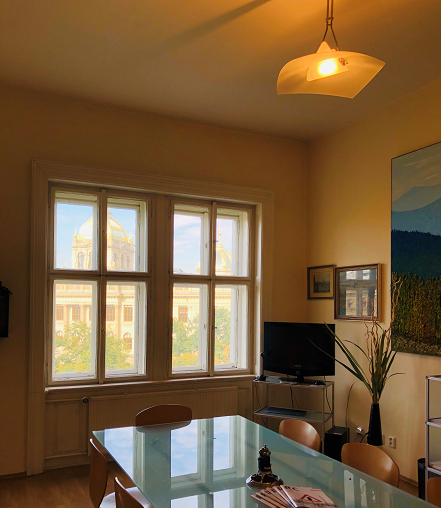
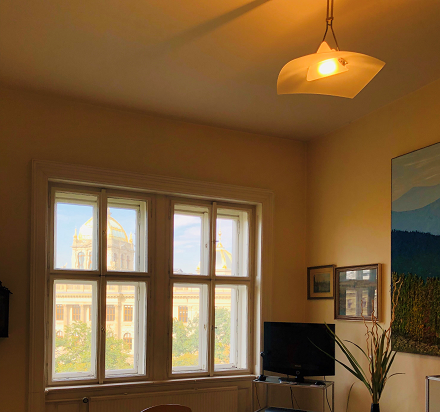
mofifiche du foto

diff --git a/index.php b/index.php
@@ -61,11 +61,17 @@
     if ($_SESSION['lang']=='it')
     {
         ?>
-<p class="text-sm-left"><h5>Bianchi & Partners consulenza ed assistenza aziendale, tributaria, societaria, del lavoro, legale, fiscale a Praha</h5></p>
+
+<div class="jumbotron">
+  <h4 class="display-9">Bianchi and Partners</h4>
+  <hr class="my-2">
+  <p>Bianchi & Partners consulenza ed assistenza aziendale, tributaria, societaria, del lavoro, legale, fiscale a Praga</p>
+  
+</div>
 <picture>
-  <source srcset="./immagini/office_originale_1.png" media="(max-width: 400px)">
-  <source srcset="./immagini/office_originale_1.png">
-  <img src="./immagini/office_originale_1.png" alt="Ufficio">
+  <source srcset="./immagini/office_originale_2.png" media="(max-width: 400px)">
+  <source srcset="./immagini/office_originale_2.png">
+  <img src="./immagini/office_originale_2.png" alt="Ufficio">
 </picture> 
 
  <?php 
@@ -73,7 +79,23 @@
     else
     {
         ?>
-   <p class="text-sm-left"><h5>      Bianchi & Partners obchodní, daňové, podnikové, pracovní, právní a fiskální poradenství a pomoc </h5></p>
+   <p class="text-sm-left"><h5>       </h5></p>
+        
+   <div class="jumbotron">
+  <h4 class="display-9">Bianchi and Partners</h4>
+  <hr class="my-2">
+  <p>Bianchi & Partners obchodní, daňové, podnikové, pracovní, právní a fiskální poradenství a pomoc</p>
+  
+</div>
+<picture>
+  <source srcset="./immagini/office_originale_2.png" media="(max-width: 400px)">
+  <source srcset="./immagini/office_originale_2.png">
+  <img src="./immagini/office_originale_2.png" alt="Ufficio">
+</picture> 
+    
+        
+        
+        
         <?php 
     }
     

diff --git a/contattiCE.php b/contattiCE.php
@@ -78,7 +78,5 @@ Poradenské oddělení <br />
             <a href="https://goo.gl/maps/ENTe8P9wSzW5s7jNA">kliknutím zobrazíte mapu</a>
           </p>
         </div>
-        <div>
-          <img src="./immagini/office.jpg" alt="Girl in a jacket" width="500" height="600"> 
-        </div>
+        
       </div>

diff --git a/contatti.php b/contatti.php
@@ -79,7 +79,5 @@
             <a href="https://goo.gl/maps/ENTe8P9wSzW5s7jNA">Clicca per la Mappa</a>
           </p>
         </div>
-        <div>
-          <img src="./immagini/office.jpg" alt="ufficioAndrea" width="500" height="600"> 
-        </div>
+       
       </div>
